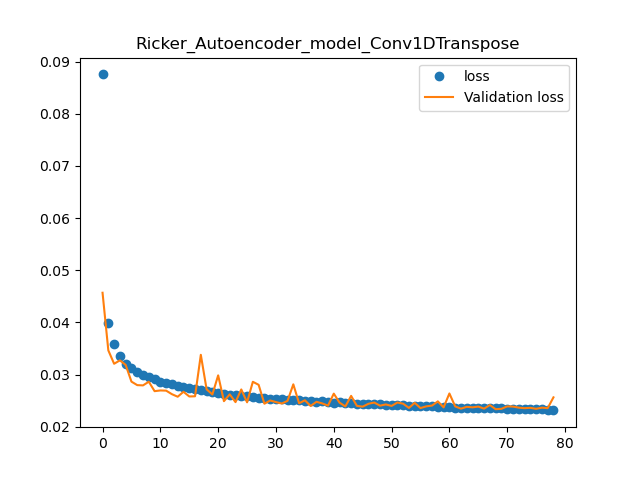
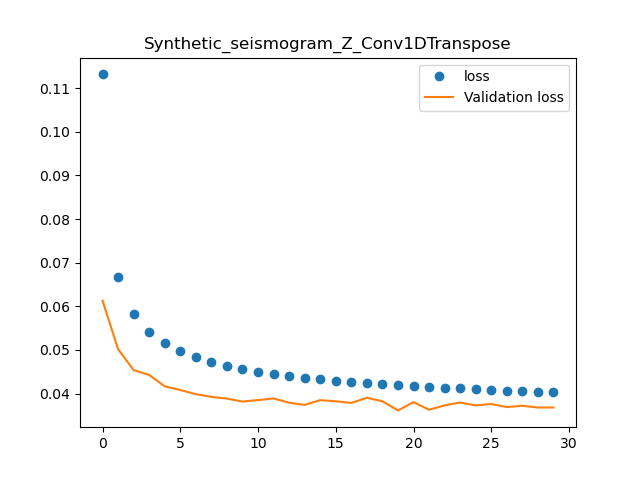
Update a new network structure with 38 features at the bottleneck

diff --git a/autoencoder_denoise_test.py b/autoencoder_denoise_test.py
@@ -16,7 +16,7 @@ from sklearn.preprocessing import MinMaxScaler, StandardScaler
 from sklearn.model_selection import train_test_split
 
 # %% Import the data
-with h5py.File('./training_datasets.hdf5', 'r') as f:
+with h5py.File('./training_datasets_pyrocko_Z.hdf5', 'r') as f:
     time = f['time'][:]
     X_train_original = f['X_train'][:]
     Y_train_original = f['Y_train'][:]
@@ -55,6 +55,10 @@ Y_train = Y_train.reshape(-1, Y_train.shape[1], 1)
 X_train, X_test, Y_train, Y_test = train_test_split(X_train, Y_train, test_size=0.4, random_state=13)
 X_validate, X_test, Y_validate, Y_test = train_test_split(X_test, Y_test, test_size=0.5, random_state=20)
 
+# %% Clean the original data
+del X_train_original
+del Y_train_original
+
 # %% build the architecture
 # %% Model the Data
 BATCH_SIZE = 128
@@ -70,7 +74,7 @@ import tensorflow as tf
 
 def autoencoder_test1():
     model = Sequential()
-    model.add(Conv1D(8, 7, padding='same', activation='relu', input_shape=(2400, 1)))
+    model.add(Conv1D(8, 7, padding='same', activation='relu', input_shape=(X_train.shape[1], 1)))
     model.add(MaxPooling1D(2))
     model.add(Conv1D(16, 7, padding='same', activation='relu'))
     model.add(MaxPooling1D(2))
@@ -102,36 +106,58 @@ def autoencoder_test1():
 def autoencoder_test_Conv1DTranspose():
     # use Conv1DTranspose instead
     model = Sequential()
-    model.add(Conv1D(8, 7, padding='same', activation='relu', input_shape=(2400, 1)))
-    model.add(MaxPooling1D(2))
+    model.add(Conv1D(8, 7, padding='same', activation='relu', input_shape=(X_train.shape[1], 1)))
+    model.add(MaxPooling1D(2)) #300
     model.add(Conv1D(16, 7, padding='same', activation='relu'))
-    model.add(MaxPooling1D(2))
+    model.add(MaxPooling1D(2)) #150
     model.add(Conv1D(16, 5, padding='same', activation='relu'))
-    model.add(MaxPooling1D(2))
-    model.add(Conv1D(32, 5, padding='same', activation='relu'))
-    model.add(MaxPooling1D(2))
+    model.add(MaxPooling1D(2)) #75
     model.add(Conv1D(32, 3, padding='same', activation='relu'))
-    model.add(MaxPooling1D(3))
+    model.add(MaxPooling1D(3)) #25
     model.add(Dropout(rate=0.1))
     model.add(Bidirectional(LSTM(units=16, return_sequences=True, dropout=0.1)))
     model.add(LSTM(units=16, return_sequences=True))
-    model.add(UpSampling1D(3))
+    model.add(UpSampling1D(3)) #75
     model.add(Conv1DTranspose(32, 3, padding='same', activation='relu'))
-    model.add(UpSampling1D(2))
-    model.add(Conv1DTranspose(32, 5, padding='same', activation='relu'))
-    model.add(UpSampling1D(2))
+    model.add(UpSampling1D(2)) #150
     model.add(Conv1DTranspose(16, 5, padding='same', activation='relu'))
-    model.add(UpSampling1D(2))
+    model.add(UpSampling1D(2)) #300
     model.add(Conv1DTranspose(16, 7, padding='same', activation='relu'))
-    model.add(UpSampling1D(2))
+    model.add(UpSampling1D(2)) #600
     model.add(Conv1DTranspose(8, 7, padding='same', activation='relu'))
     model.add(Conv1DTranspose(1, 7, padding='same'))
     model.add(LeakyReLU(alpha=0.5))
 
     return model
 
+def autoencoder_test_Conv1DTranspose2():
+    # use Conv1DTranspose instead
+    model = Sequential()
+    model.add(Conv1D(8, 7, padding='same', activation='relu', input_shape=(X_train.shape[1], 1)))
+    model.add(MaxPooling1D(2)) #300
+    model.add(Conv1D(16, 7, padding='same', activation='relu'))
+    model.add(MaxPooling1D(2)) #150
+    model.add(Conv1D(16, 5, padding='same', activation='relu'))
+    model.add(MaxPooling1D(2)) #75
+    model.add(Conv1D(32, 3, padding='same', activation='relu'))
+    model.add(MaxPooling1D(2, padding='same')) #37
+    model.add(Dropout(rate=0.1))
+    model.add(Bidirectional(LSTM(units=16, return_sequences=True, dropout=0.1)))
+    model.add(LSTM(units=16, return_sequences=True))
+    model.add(UpSampling1D(2)) #76
+    model.add(Conv1D(32, 2, activation='relu'))
+    model.add(UpSampling1D(2)) #152
+    model.add(Conv1DTranspose(16, 5, padding='same', activation='relu'))
+    model.add(UpSampling1D(2)) #300
+    model.add(Conv1DTranspose(16, 7, padding='same', activation='relu'))
+    model.add(UpSampling1D(2)) #600
+    model.add(Conv1DTranspose(8, 7, padding='same', activation='relu'))
+    model.add(Conv1DTranspose(1, 7, padding='same'))
+    model.add(LeakyReLU(alpha=0.5))
 
-model = autoencoder_test_Conv1DTranspose()
+    return model
+
+model = autoencoder_test_Conv1DTranspose2()
 #model = autoencoder_test1()
 
 print(model.summary())
@@ -158,18 +184,18 @@ plt.figure()
 plt.plot(loss, 'o', label='loss')
 plt.plot(val_loss, '-', label='Validation loss')
 plt.legend()
-plt.title('Ricker_Autoencoder_model_Conv1DTranspose')
+plt.title('Synthetic_seismogram_Z_Conv1DTranspose')
 plt.show()
-plt.savefig('./Figures/Loss_evolution.png')
+plt.savefig('./Figures/Loss_evolution_38.png')
 
 # %% Save the model
 model_dataset_dir = './Model_and_datasets'
 if not os.path.exists(model_dataset_dir):
     os.mkdir(model_dataset_dir)
-model.save(model_dataset_dir + '/Ricker_Autoencoder_model_Conv1DTranspose.hdf5')
+model.save(model_dataset_dir + '/Synthetic_seismogram_Z_Conv1DTranspose_38.hdf5')
 
 # %% Save the datasets
-model_datasets = model_dataset_dir + '/Ricker_Autoencoder_model_datasets.hdf5'
+model_datasets = model_dataset_dir + '/Synthetic_seismogram_Z_Autoencoder_model_datasets.hdf5'
 if not os.path.exists(model_datasets):
     with h5py.File(model_datasets, 'w') as f:
         f.create_dataset('time', data=time)

diff --git a/load_model_and_test.py b/load_model_and_test.py
@@ -5,9 +5,9 @@ import h5py
 import keras
 
 # %% load model
-model = keras.models.load_model('./Model_and_datasets/Ricker_Autoencoder_model_Conv1DTranspose.hdf5')
+model = keras.models.load_model('./Model_and_datasets/Synthetic_seismogram_Z_Conv1DTranspose_38.hdf5')
 # %% load dataset
-with h5py.File('./Model_and_datasets/Ricker_Autoencoder_model_datasets.hdf5', 'r') as f:
+with h5py.File('./Model_and_datasets/Synthetic_seismogram_Z_Autoencoder_model_datasets.hdf5', 'r') as f:
     time = f['time'][:]
     X_test = f['X_test'][:]
     Y_test = f['Y_test'][:]
@@ -18,19 +18,20 @@ Y_predict = model.predict(X_test)
 # %% Visualize the results
 i_show = np.random.randint(0, X_test.shape[0], 10)
 plt.close('all')
-fig, ax = plt.subplots(5, 2, figsize=(16, 12), squeeze=True, num=1)
+fig, ax = plt.subplots(5, 2, figsize=(16, 12), squeeze=True, num=1, sharey=True, sharex=True)
 ax = ax.flatten()
 for i, axi in enumerate(ax):
     axi.plot(time, X_test[i_show[i], :, 0], '-k', label='X test')
     axi.plot(time, Y_test[i_show[i], :, 0], '-b', label='Y test')
     axi.plot(time, Y_predict[i_show[i], :, 0], '-r', label='Y predicted')
-    axi.legend()
+    if i == 0:
+        axi.legend()
 ax[-2].set_xlabel('Time (s)')
 ax[-1].set_xlabel('Time (s)')
 plt.show()
-plt.savefig('./Figures/Ricker_Model_prediction.png')
+plt.savefig('./Figures/Synthetic_seismogram_Z_Model_prediction.png')
 
 
 # %% Visualize the model
 from keras.utils.vis_utils import plot_model
-plot_model(model, to_file='./Figures/model_plot.png', show_shapes=True, show_layer_names=True)
+plot_model(model, to_file='./Figures/synthetic_seismograms_Z_model_plot.png', show_shapes=True, show_layer_names=True)
